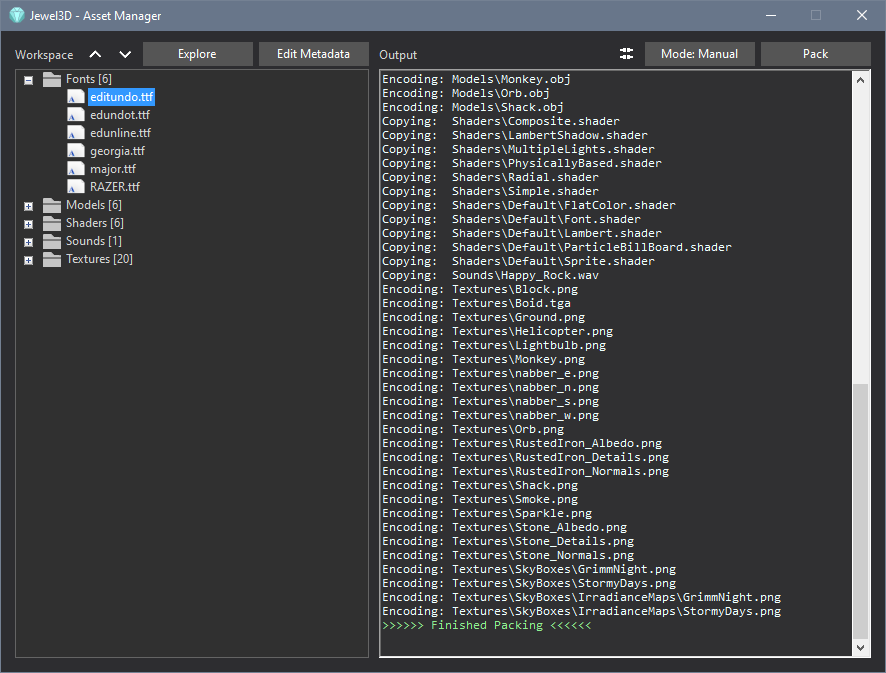
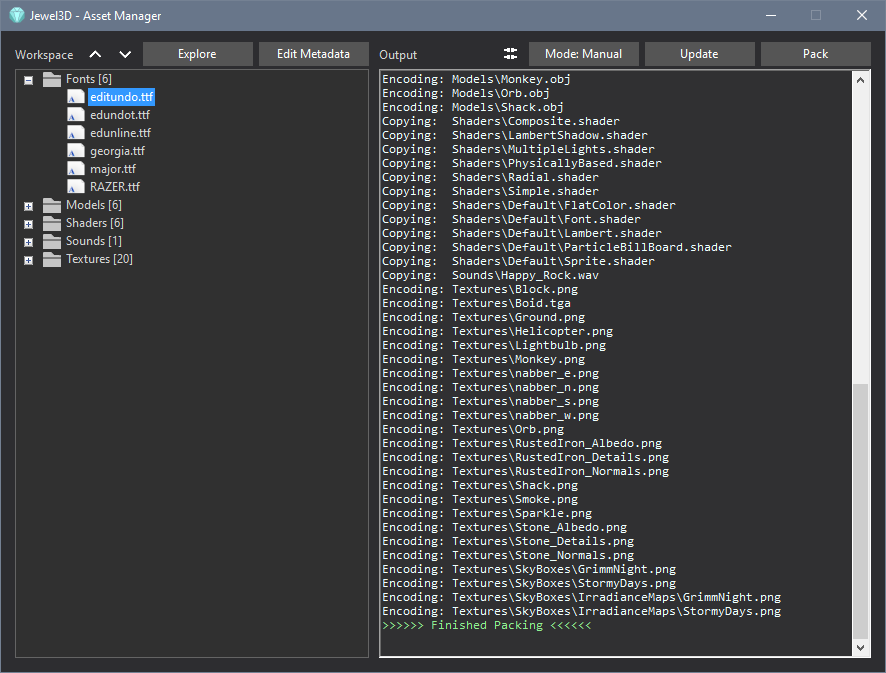
AssetManager no longer updates the workspace on startup
- Added back the manual Update button
- This improves startup performance

Changed region(s): [[0.579, 0.0624, 0.8533, 0.1248]]

diff --git a/Tools/AssetManager/Manager.Designer.cs b/Tools/AssetManager/Manager.Designer.cs
@@ -40,6 +40,7 @@
 			this.ButtonSettings = new System.Windows.Forms.Button();
 			this.buttonEditMetadata = new System.Windows.Forms.Button();
 			this.ButtonMode = new System.Windows.Forms.Button();
+			this.ButtonUpdate = new System.Windows.Forms.Button();
 			this.SuspendLayout();
 			// 
 			// ButtonPack
@@ -158,7 +159,7 @@
 			this.ButtonSettings.FlatAppearance.BorderSize = 0;
 			this.ButtonSettings.FlatAppearance.MouseOverBackColor = System.Drawing.Color.FromArgb(((int)(((byte)(67)))), ((int)(((byte)(67)))), ((int)(((byte)(67)))));
 			this.ButtonSettings.FlatStyle = System.Windows.Forms.FlatStyle.Flat;
-			this.ButtonSettings.Location = new System.Drawing.Point(614, 11);
+			this.ButtonSettings.Location = new System.Drawing.Point(498, 11);
 			this.ButtonSettings.Name = "ButtonSettings";
 			this.ButtonSettings.Size = new System.Drawing.Size(24, 24);
 			this.ButtonSettings.TabIndex = 23;
@@ -185,7 +186,7 @@
 			this.ButtonMode.FlatAppearance.BorderSize = 0;
 			this.ButtonMode.FlatStyle = System.Windows.Forms.FlatStyle.Flat;
 			this.ButtonMode.ForeColor = System.Drawing.SystemColors.ControlLightLight;
-			this.ButtonMode.Location = new System.Drawing.Point(644, 11);
+			this.ButtonMode.Location = new System.Drawing.Point(528, 11);
 			this.ButtonMode.Name = "ButtonMode";
 			this.ButtonMode.Size = new System.Drawing.Size(110, 24);
 			this.ButtonMode.TabIndex = 29;
@@ -193,12 +194,27 @@
 			this.ButtonMode.UseVisualStyleBackColor = false;
 			this.ButtonMode.Click += new System.EventHandler(this.ButtonMode_Click);
 			// 
+			// ButtonUpdate
+			// 
+			this.ButtonUpdate.BackColor = System.Drawing.Color.FromArgb(((int)(((byte)(85)))), ((int)(((byte)(85)))), ((int)(((byte)(85)))));
+			this.ButtonUpdate.FlatAppearance.BorderSize = 0;
+			this.ButtonUpdate.FlatStyle = System.Windows.Forms.FlatStyle.Flat;
+			this.ButtonUpdate.ForeColor = System.Drawing.SystemColors.ControlLightLight;
+			this.ButtonUpdate.Location = new System.Drawing.Point(644, 11);
+			this.ButtonUpdate.Name = "ButtonUpdate";
+			this.ButtonUpdate.Size = new System.Drawing.Size(110, 24);
+			this.ButtonUpdate.TabIndex = 30;
+			this.ButtonUpdate.Text = "Update";
+			this.ButtonUpdate.UseVisualStyleBackColor = false;
+			this.ButtonUpdate.Click += new System.EventHandler(this.ButtonUpdate_Click);
+			// 
 			// Manager
 			// 
 			this.AutoScaleDimensions = new System.Drawing.SizeF(7F, 15F);
 			this.AutoScaleMode = System.Windows.Forms.AutoScaleMode.Font;
 			this.BackColor = System.Drawing.Color.FromArgb(((int)(((byte)(45)))), ((int)(((byte)(45)))), ((int)(((byte)(48)))));
 			this.ClientSize = new System.Drawing.Size(884, 641);
+			this.Controls.Add(this.ButtonUpdate);
 			this.Controls.Add(this.ButtonMode);
 			this.Controls.Add(this.buttonEditMetadata);
 			this.Controls.Add(this.buttonCollapse);
@@ -233,6 +249,7 @@
 		private System.Windows.Forms.Button buttonCollapse;
 		private System.Windows.Forms.Button buttonEditMetadata;
 		private System.Windows.Forms.Button ButtonMode;
+		private System.Windows.Forms.Button ButtonUpdate;
 	}
 }
 

diff --git a/Tools/AssetManager/Manager.cs b/Tools/AssetManager/Manager.cs
@@ -203,6 +203,7 @@ namespace AssetManager
 
 			ButtonPack.Enabled = false;
 			ButtonMode.Enabled = false;
+			ButtonUpdate.Enabled = false;
 			ButtonSettings.Enabled = false;
 
 			// Duplicate the directory structure in the output folder.
@@ -232,6 +233,7 @@ namespace AssetManager
 			{
 				ButtonPack.Enabled = true;
 				ButtonMode.Enabled = true;
+				ButtonUpdate.Enabled = true;
 				ButtonSettings.Enabled = true;
 
 				Icon = Properties.Resources.JewelIcon;
@@ -428,11 +430,13 @@ namespace AssetManager
 			case BuildMode.Auto:
 				ButtonMode.Text = "Mode: Auto";
 				ButtonPack.Enabled = false;
+				ButtonUpdate.Enabled = false;
 				break;
 
 			case BuildMode.Manual:
 				ButtonMode.Text = "Mode: Manual";
 				ButtonPack.Enabled = true;
+				ButtonUpdate.Enabled = true;
 				break;
 			}
 
@@ -442,6 +446,7 @@ namespace AssetManager
 		private void buttonSettings_Click(object sender, EventArgs e)
 		{
 			ButtonPack.Enabled = false;
+			ButtonUpdate.Enabled = false;
 			ButtonSettings.Enabled = false;
 
 			var settingsForm = new Settings();
@@ -450,6 +455,7 @@ namespace AssetManager
 			settingsForm.FormClosed += delegate
 			{
 				ButtonPack.Enabled = true;
+				ButtonUpdate.Enabled = true;
 				ButtonSettings.Enabled = true;
 
 				// Refresh settings.
@@ -464,6 +470,11 @@ namespace AssetManager
 		private void buttonWorkspaceOpen_Click(object sender, EventArgs e)
 		{
 			Process.Start("explorer.exe", Directory.GetCurrentDirectory());
+		}
+
+		private void ButtonUpdate_Click(object sender, EventArgs e)
+		{
+			UpdateWorkspace();
 		}
 
 		private void ButtonPack_Click(object sender, EventArgs e)

diff --git a/Tools/AssetManager/Program.cs b/Tools/AssetManager/Program.cs
@@ -38,7 +38,6 @@ namespace AssetManager
 				// Otherwise we can start the UI normally and route output to the visual textBox.
 				Console.SetOut(new RichTextBoxStreamWriter(builder.GetOutput()));
 
-				builder.UpdateWorkspace();
 				Application.Run(builder);
 			}
 		}

diff --git a/Resources/Docs/AssetManager.md b/Resources/Docs/AssetManager.md
@@ -12,13 +12,18 @@ In the AssetManager, each Encoder is associated with a specific file extension. 
 Custom Encoders can be created for game-specific assets (levels, items, dialog-trees etc.), allowing you to easily pack game data.
 
 # Metadata
-Every asset with an associated encoder has metaData created for it. Metadata is saved adjacent to the asset (`assetName.extension.meta`) as plain text.
+Every asset with an associated encoder has metaData created for it. MetaData is saved adjacent to the asset (`assetName.extension.meta`) as plain text.
 The content of the metaData file depends on the encoder. These are the properties used when packing the asset into a binary format.
 For instance, .ttf.meta files for fonts specify the output resolution of the generated textures.
 
-Metadata files are automatically updated and added to the workspace while the AssetManager is running.
+MetaData files are automatically added for newly created assets while the AssetManager is running.
 
 # Building Assets
+The AssetManager provides two functions, Updating and Packing. Updating your workspace will ensure that all	
+assets have up-to-date metaData associated with them. If an asset doesn't have metaData, Updating the workspace	
+will use the Encoder associated with that asset to generate a default metaData file. If an asset already has	
+metaData, the Encoder will be used to validate the integrity of the metaData and update it to the latest version.
+
 Packing the workspace will prepare all assets for use by the game. By default, an output folder called `Assets` will be created adjacent to the Workspace.
 All assets with an associated Encoder will be converted using the DLL and saved to the Assets folder. Any remaining assets are copied 1:1 to the folder.
 The output folder is populated with the same folder structure as the workspace.
